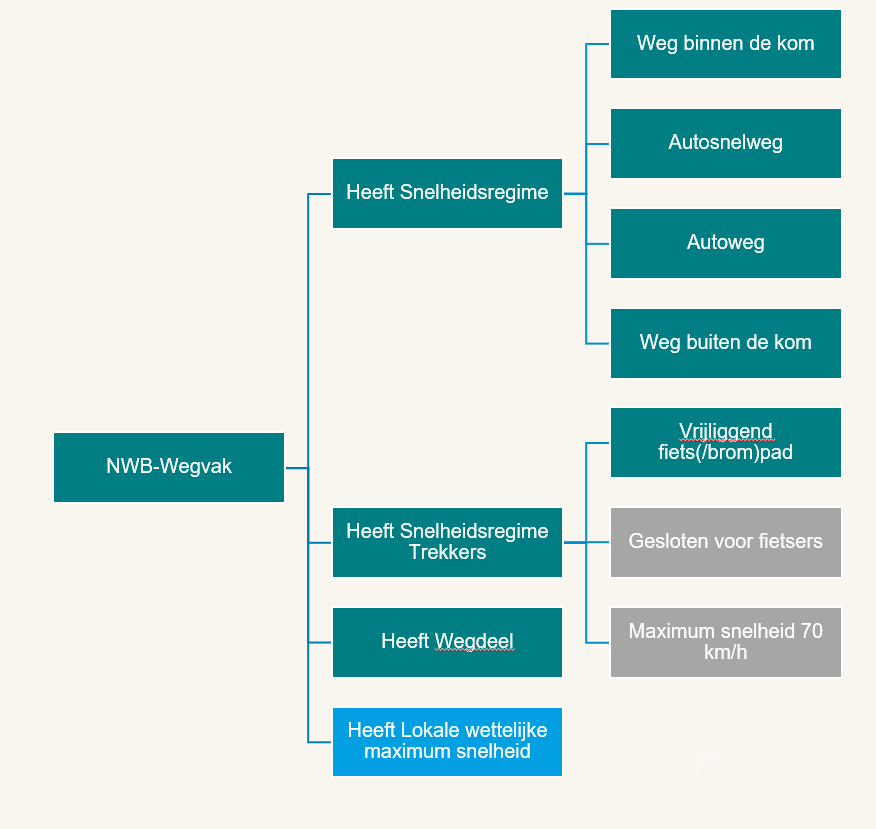
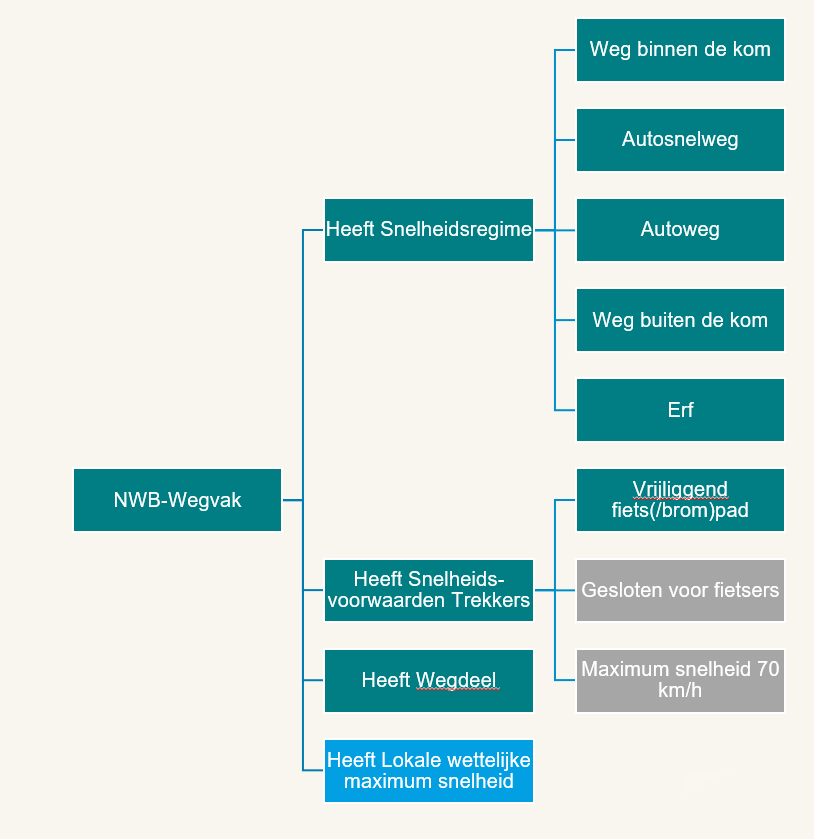
update nav juridische toets termeninformatiemodel

Changed region(s): [[0.0614, 0.0, 0.9828, 0.965]]

diff --git a/docs/howtodatamanagement/hoofdstukken/alledefinitiesvoordedocumentatie.md b/docs/howtodatamanagement/hoofdstukken/alledefinitiesvoordedocumentatie.md
@@ -27,7 +27,8 @@ Daarbij gelden momenteel de volgende regels:
 <p><dfn data-lt="Verkeerskundige informatie">Verkeerskundige informatie</dfn> Informatie over de op een weg geldende verkeersregels, waarschuwingen en adviessnelheden en de bijbehorende verkeerstekens.</p>
 <p><dfn data-lt="Verkeersmaatregel">Verkeersmaatregel</dfn> Een gebod en/of verbod of adviessnelheid dat kan worden gevisualiseerd met een verkeersbord uit bijlage I, behorende bij het <a href="https://wetten.overheid.nl/BWBR0004825/2023-07-01#Bijlage1">RVV 1990, categorie A tot en met H.</a></p>
 <p><dfn data-lt="Waarschuwing">Waarschuwing</dfn> De waarschuwingen aan het verkeer op een locatie volgens de <a href="https://wetten.overheid.nl/BWBR0004825/2023-07-01#Bijlage1">RVV 1990, Bijlage 1 Verkeersborden, categorie J.</a></p>
-<p><dfn data lt="Weg/Wegen">Weg</dfn>Alle voor het openbaar verkeer openstaande wegen of paden met inbegrip van de daarin liggende bruggen en duikers en de tot die wegen behorende paden en bermen of zijkanten. Bron: <a href="https://wetten.overheid.nl/BWBR0006622/2024-01-01#HoofdstukaIA">Wegenverkeerswet</a></p> 
+<p><dfn data lt="Weg|Wegen">Weg</dfn>Alle voor het openbaar verkeer openstaande wegen of paden met inbegrip van de daarin liggende bruggen en duikers en de tot die wegen behorende paden en bermen of zijkanten. Bron: <a href="https://wetten.overheid.nl/BWBR0006622/2024-01-01#HoofdstukaIA">Wegenverkeerswet</a></p> 
+<p><dfn data lt="Wegdeel|Wegdelen">Weg</dfn>Een gedeelte van de weg, waaronder de rijbaan, vrijliggende fiets- voet- en (brom)fietspaden</a></p> 
 <p><dfn data lt="Wegvak">Wegvak</dfn> Gedeelte van een weg tussen twee zijwegen of – indien geen zijweg aanwezig is – tussen twee punten waarop een verkeersmaatregel betrekking heeft; Bron: <a href="https://wetten.overheid.nl/jci1.3:c:BWBR0004826&hoofdstuk=I&artikel=1&z=2024-01-01&g=2024-01-01">BABW</a></p> 
 <p><dfn data-lt="Wettelijk verkeersbord">Wettelijk verkeersbord</dfn> Verkeersbord met een wettelijke basis in het Reglement verkeersregels en verkeerstekens 1990 (RVV 1990) of daarop aanvullende wetten.</p>
 <dfn data-lt="Werkingslengte">Werkingslengte</dfn>

diff --git a/docs/howtodatamanagement/hoofdstukken/5.md b/docs/howtodatamanagement/hoofdstukken/5.md
@@ -1,13 +1,14 @@
 # Snelheid
 
 ## Snelheidsregime
-De <a href="https://wetten.overheid.nl/jci1.3:c:BWBR0004825&hoofdstuk=II&paragraaf=8&z=2023-07-01&g=2023-07-01">RVV 1990 § 8. Maximumsnelheid</a>  snelheidsregimes. Daarvoor gelden standaard wettelijke maximumsnelheden, afhankelijk van het voertuigtype en het [=wegdeel=] waarop men zich bevindt. 
+De <a href="https://wetten.overheid.nl/jci1.3:c:BWBR0004825&hoofdstuk=II&paragraaf=8&z=2023-07-01&g=2023-07-01">RVV 1990 § 8. Maximumsnelheid</a> geeft snelheidsregimes voor bepaalde soorten wegen, zoals autosnelwegen of wegen binnen de bebouwde kom. Daarvoor gelden standaard wettelijke maximumsnelheden, afhankelijk van het voertuigtype en het [=wegdeel=] waarop men zich bevindt, met extra voorwaarden over de weginrichting bij de snelheidsregimes voor trekkers en landbouwvoertuigen. 
 
-Daarnaast wordt in 
+Daarnaast wordt in <a href="https://wetten.overheid.nl/jci1.3:c:BWBR0004825&hoofdstuk=II&paragraaf=17&artikel=45&z=2023-07-01&g=2023-07-01">Artikel 45 Reglement verkeersregels en verkeerstekens 1990 (RVV 1990)</a> een snelheid opgegeven voor erven.
+
 
 <figure>
 <img src="./hoofdstukken/media/snelheidsregimes.PNG">
-<figcaption>De in de <a href="https://wetten.overheid.nl/jci1.3:c:BWBR0004825&hoofdstuk=II&paragraaf=8&z=2023-07-01&g=2023-07-01">RVV 1990 § 8. Maximumsnelheid</a>benoemde snelheidsregimes</caption>
+<figcaption>De in de RVV 1990 benoemde snelheidsregimes</caption>
 </figure>
 
 
